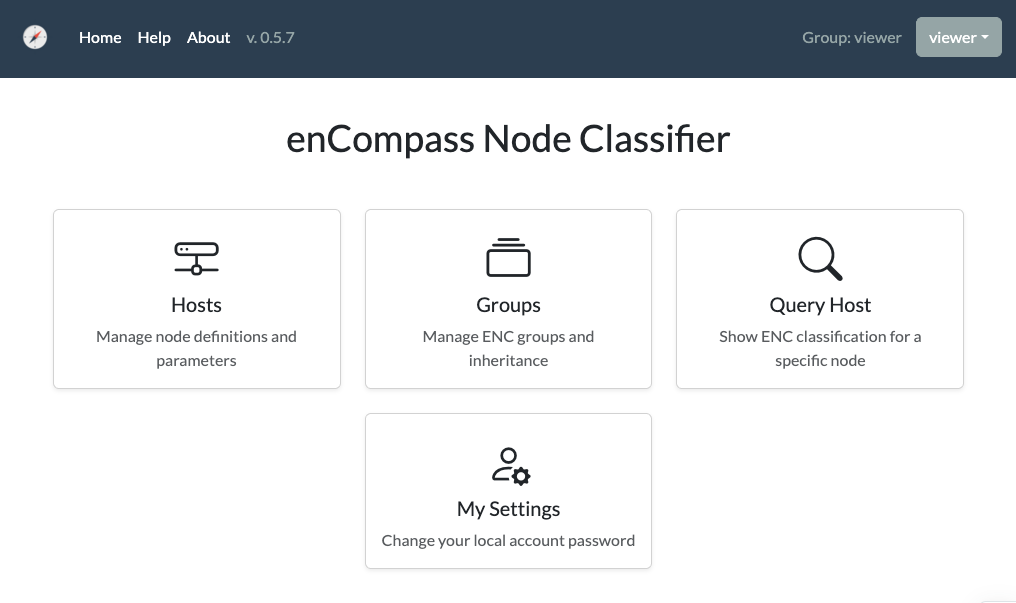
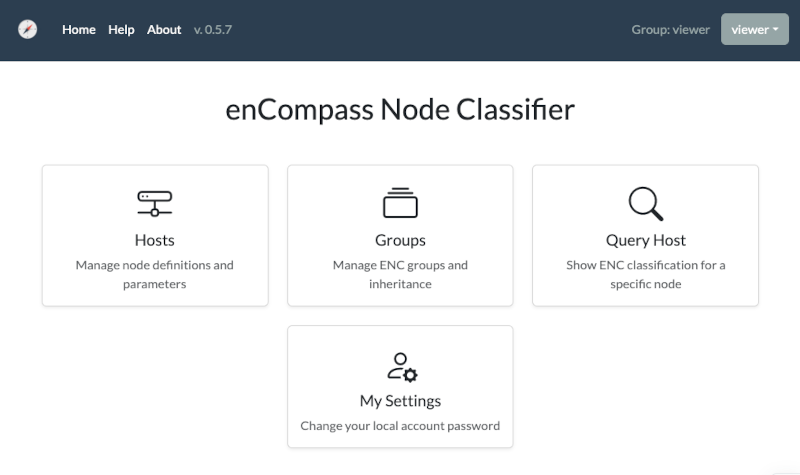
fix markdown link for the screenshot

diff --git a/encompass/encompass/views.py b/encompass/encompass/views.py
@@ -6,6 +6,7 @@ views definition
 import os
 import json
 import logging
+import re
 from functools import wraps
 import yaml
 import markdown
@@ -15,6 +16,7 @@ from django.http import JsonResponse
 from django.views.decorators.http import require_GET
 from django.contrib.auth.decorators import login_required
 from django.contrib import messages
+from django.templatetags.static import static
 from . import tools
 from . import user_helpers
 
@@ -27,6 +29,23 @@ MY_ENV["PYTHONUNBUFFERED"] = "TRUE"
 MY_ENV["PATH"] = f"{settings.HOME_DIR}/bin:{os.environ['PATH']}"
 READ_ONLY_GROUPS = [settings.ENC_ADMIN_GROUP, settings.ENC_VIEWER_GROUP]
 ADMIN_ONLY_GROUPS = [settings.ENC_ADMIN_GROUP]
+
+_IMG_SRC_PATTERN = re.compile(r'(<img\b[^>]*\bsrc=["\'])([^"\']+)(["\'])', re.IGNORECASE)
+
+
+def _rewrite_relative_markdown_image_src(html: str) -> str:
+    """Convert relative markdown image sources to Django static URLs."""
+
+    def _replace(match):
+        prefix, src, suffix = match.groups()
+        lowered = src.lower()
+        if lowered.startswith(("http://", "https://", "data:", "/", "#")):
+            return match.group(0)
+
+        static_path = src[7:] if src.startswith("static/") else src
+        return f"{prefix}{static(static_path)}{suffix}"
+
+    return _IMG_SRC_PATTERN.sub(_replace, html)
 
 
 def get_user_groups(user):
@@ -708,6 +727,7 @@ def help_page(request):
         content = f.read()
 
     html = markdown.markdown(content, extensions=["fenced_code", "tables", "toc"])
+    html = _rewrite_relative_markdown_image_src(html)
     context = {
         "encompass_email": identity["email"],
         "group_name": group_name,

diff --git a/README.md b/README.md
@@ -8,8 +8,7 @@ It does not depend on database and boots up in just 1 second making it ideal for
 
 **Demo site**: [encompass-demo.geant.org](https://encompass-demo.geant.org/)
 
-<!-- markdownlint-disable-next-line MD033 -->
-<img src="/static/images/enCompass.png" alt="drawing" width="800"/>
+![enCompass screenshot](static/images/enCompass.png)
 
 ## Index
 
